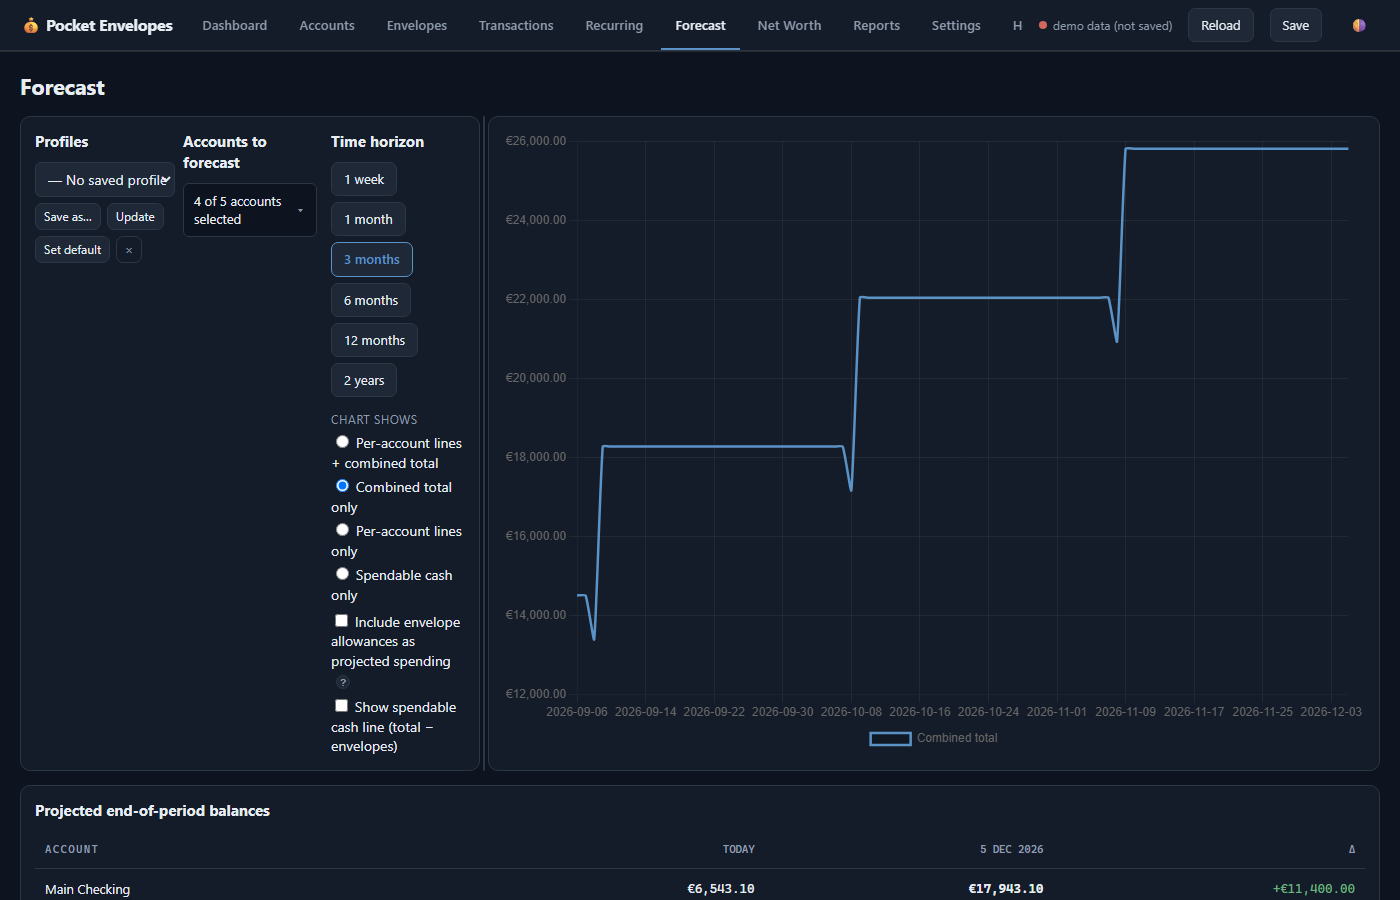
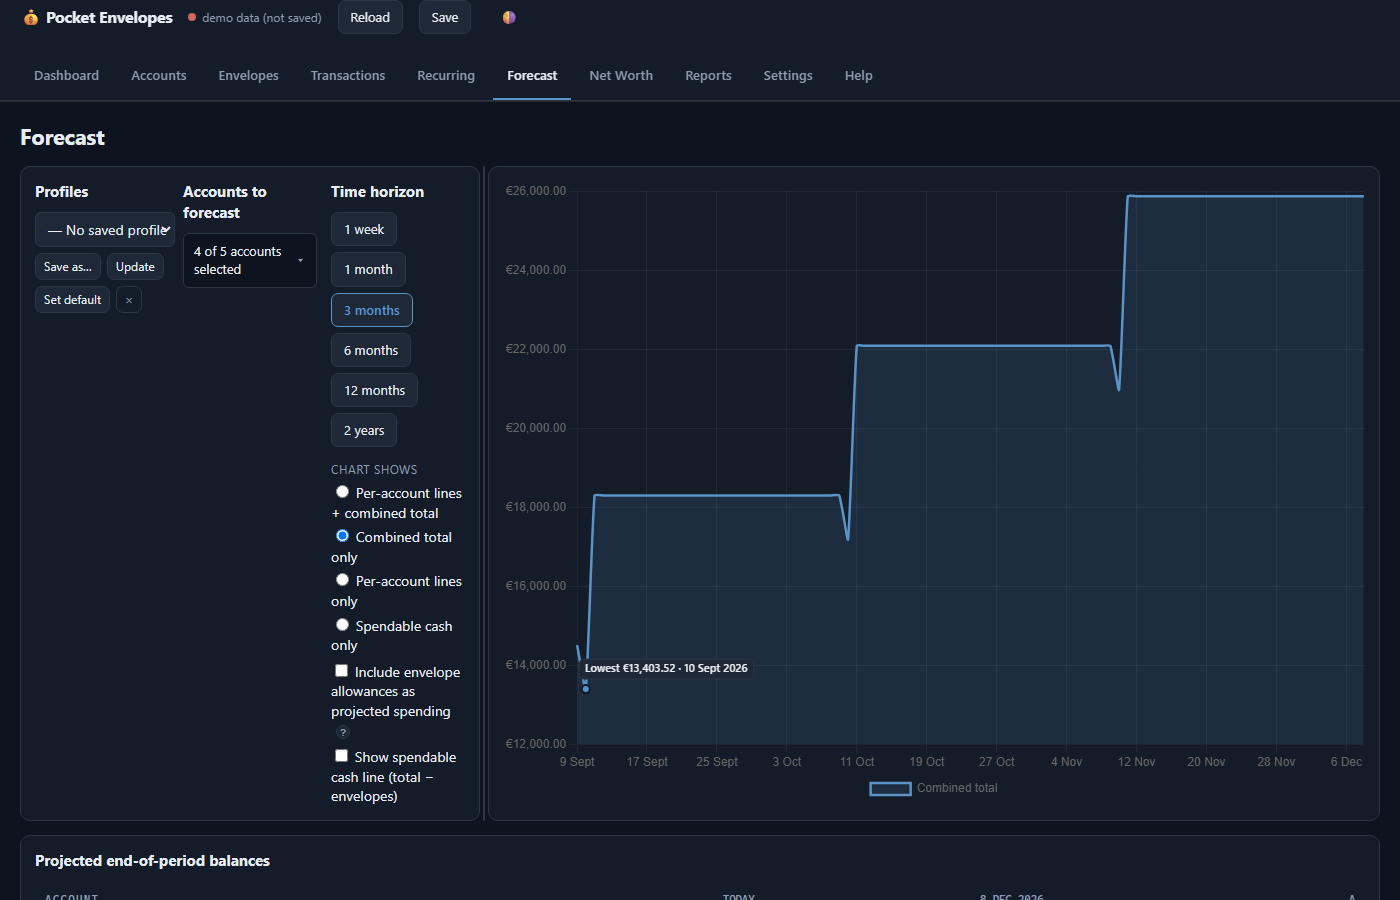
docs: regenerate the README screenshots for v0.6.0; tab strip wraps up to 1440px
The five screenshots now show the pace bars, card menus, marked forecast
low and neutral dashboard tile. The Playwright script that makes them is
checked in as screenshots/capture.py (1400x900, dark, English browser UI so
the native month picker is not in the OS language). Capturing at 1400px
showed the tab strip clipping the Help tab whenever the status label is
long, so the header's wrap breakpoint moves from 1380px to 1440px.

diff --git a/screenshots/capture.py b/screenshots/capture.py
@@ -1,0 +1,33 @@
+"""Regenerate the README screenshots from the demo dataset.
+
+    python screenshots/capture.py            # needs: pip install playwright && playwright install chromium
+
+Points headless Chromium at a running server (default http://127.0.0.1:8765,
+override with the SERVER environment variable) in ?demo=1 mode, which never
+reads or writes finance-data.json. Viewport 1400x900, dark theme (the demo's
+default), one PNG per view into this folder. The browser UI language is forced
+to English because native <input type="month"> follows the browser language,
+not the page locale.
+"""
+import os
+from pathlib import Path
+
+from playwright.sync_api import sync_playwright
+
+OUT = Path(__file__).resolve().parent
+BASE = os.environ.get("SERVER", "http://127.0.0.1:8765") + "/?demo=1"
+VIEWS = ["dashboard", "envelopes", "transactions", "forecast", "reports"]
+
+with sync_playwright() as p:
+    browser = p.chromium.launch(args=["--lang=en-GB"])
+    page = browser.new_page(viewport={"width": 1400, "height": 900}, device_scale_factor=1,
+                            color_scheme="dark", locale="en-GB")
+    for view in VIEWS:
+        page.goto(f"{BASE}&view={view}", wait_until="networkidle")
+        page.wait_for_selector("#main .card, #main table", timeout=10000)
+        page.wait_for_timeout(1200)      # let the charts animate in
+        page.mouse.move(0, 0)            # no hover states in the shot
+        target = OUT / f"{view}.png"
+        page.screenshot(path=str(target), full_page=False)
+        print("wrote", target.name, target.stat().st_size // 1024, "KB")
+    browser.close()

diff --git a/CLAUDE.md b/CLAUDE.md
@@ -21,7 +21,7 @@ A single-file personal-finance web app focused on envelope budgeting, built by a
 | `launch.sh` | macOS/Linux launcher. Same Python detection logic as `launch.bat`. |
 | `vendor/chart.umd.min.js` | Locally-vendored Chart.js (loaded via `<script src="vendor/chart.umd.min.js">`). See `vendor/README.md` for version + provenance. |
 | `vendor/chart.js-LICENSE.txt` | Chart.js's MIT license text, vendored next to the bundle so the redistribution terms travel with it. |
-| `screenshots/` | The five README screenshots (dashboard, envelopes, transactions, forecast, reports), regenerated from `?demo=1` via a Playwright script. |
+| `screenshots/` | The five README screenshots (dashboard, envelopes, transactions, forecast, reports) plus `capture.py`, the Playwright script that regenerates them from `?demo=1` against a running server (1400×900, dark, English browser UI so the month picker is not in the OS language). Needs a Python with `playwright` installed; on this PC use `newbuilding-crew-pack\.venv`. |
 | `README.md` | User-facing docs: install, concepts, security, optional multi-device setup. |
 | `SECURITY.md` | Security policy: the no-auth / loopback-only model in practice, and how to report an issue. |
 | `CONTRIBUTING.md` | How to propose a change; what to run before opening a PR. |
@@ -141,7 +141,7 @@ data = {
 10. **Rolling backups live in `localStorage`, not on disk.** File System Access only gives the app a *file* handle, not the parent directory, so writing sibling `.bak` files would require switching to `showDirectoryPicker()` (significant UX change). Backups are stored as one `envBudget_bak_<date>` key per day with a small `envBudget_bak_index` for the slot list. Trade-off: clearing site data wipes backups. Disk-level backups via directory picker remain on the roadmap. Restore goes through `pushUndo()` so a wrong restore is Ctrl-Z-able.
 11. **Add/Edit transaction snapshots undo.** The `t_save` handler (Add Tx / Edit Tx / recurring-instance-now) calls `pushUndo('Add transaction' | 'Edit transaction')` *before* the push/overwrite. This is the highest-frequency mutation and was previously the one destructive site that did NOT snapshot — so Ctrl-Z popped an older snapshot and reverted an unrelated earlier change while the just-edited tx survived. Reinforces #8; don't remove it. (Fixed 2026-05-31, review-360.)
 12. **Due-review "Apply selected" advances `lastAppliedDate` only through the contiguous applied prefix.** In `showDueReview()`'s `dueApplySel` handler, each recurring's watermark may advance only up to its latest applied occurrence that has **no earlier un-ticked sibling** — NOT to the max applied date. The old max-advance jumped the watermark past a skipped earlier occurrence, which then sat before `lastAppliedDate` and was silently never offered again (financial data loss). Trade-off of the fix: a later occurrence applied across a gap reappears in the next review (visible, recoverable) rather than an earlier skipped one vanishing (silent); a permanent skip must be a separate deliberate action. Do NOT "optimize" this back to max-date advancement. (`applyDueRecurring`'s own max-advance is fine there because it applies *all* due occurrences, leaving no gaps.) (Fixed 2026-05-31, review-360.)
-13. **review-360 medium pass (2026-05-31).** A batch of smaller fixes worth knowing about: (a) **Close-out now snapshots undo** (`co_apply` calls `pushUndo` — same theme as #11). (b) **Reports does one tx scan, not four** — `reportsAggregates()` computes both aggregates once; `renderReports` caches them in `_reportsAgg` for `bindReports`. **Ordering invariant:** `bindReports` must run immediately after `renderReports` (it does — the view switch calls them in sequence); it falls back to recomputing if `_reportsAgg` is null. (c) **`recurringToTx` extracted** as the single source of truth for recurring→tx routing. (d) **`openModal` auto-associates `<label>`s** with their controls — keep modal fields as `<div class="field"><label>…</label><input …></div>` and they get a programmatic label for free. (e) **Settings currency/locale escaped** with `esc()` (was a stored-XSS sink on import). (f) **Nav tabs wrap to their own row** between 721–1380px (1280px laptops no longer clip the tab strip).
+13. **review-360 medium pass (2026-05-31).** A batch of smaller fixes worth knowing about: (a) **Close-out now snapshots undo** (`co_apply` calls `pushUndo` — same theme as #11). (b) **Reports does one tx scan, not four** — `reportsAggregates()` computes both aggregates once; `renderReports` caches them in `_reportsAgg` for `bindReports`. **Ordering invariant:** `bindReports` must run immediately after `renderReports` (it does — the view switch calls them in sequence); it falls back to recomputing if `_reportsAgg` is null. (c) **`recurringToTx` extracted** as the single source of truth for recurring→tx routing. (d) **`openModal` auto-associates `<label>`s** with their controls — keep modal fields as `<div class="field"><label>…</label><input …></div>` and they get a programmatic label for free. (e) **Settings currency/locale escaped** with `esc()` (was a stored-XSS sink on import). (f) **Nav tabs wrap to their own row** between 721–1440px (1280px laptops no longer clip the tab strip; the upper bound moved from 1380 to 1440 on 2026-09-09 because a long status label clipped the Help tab at 1400px).
 14. **review-360 low pass (2026-05-31).** Mostly DRY/a11y polish — see the Helpers table for the new shared functions (`recurringResumeDate`, `wireAmountPreview`, `txDisplayParts`, `plural`, `linkHelpTips`). Plus: removed a dead no-op loop in `applyDueRecurring` (its watermark is set per-occurrence in the main loop — do NOT re-add a "advance to today" pass, same reasoning as #12); `restoreBackup` now rejects valid-JSON-but-non-object backups before `migrate()`; `idbSet` settles on error/abort so `openFile`/`newFile` can't hang; modal labels/help-tips/tap-targets/aria-current hardened; undo toasts surface the Ctrl+Z fallback in their text. **Deferred** (logged, not done): the forecast per-occurrence inner loops (`forecastAccountBalances`) and the global full-`render()` teardown — both measured negligible (sub-ms / within frame budget) and sit in the most sensitive code, so the regression risk outweighs the gain. Revisit only if a profiler flags them at real data sizes.
 15. **Modals are draggable + resizable on desktop (2026-06-01).** `.modal` gets `resize: both` and a drag-by-title-bar handler (`makeModalDraggable`), both gated on `(pointer: fine)` so touch keeps the full-width centered modal. Drag is clamped to keep the whole modal on-screen (the title bar is the only grab handle — it must never leave the viewport). Position/size **reset on every open** (`openModal` clears `transform`/`width`/`height` on the reused `#modal`). The focus trap, Esc-close and `aria` labelling are untouched. Backdrop click-to-close was hardened: it now only closes when the press *started* on `#modalBg` (tracked via a `pointerdown` flag) — otherwise a resize/drag that releases over the backdrop fires a click targeting `#modalBg` and would close the dialog mid-interaction. Don't put interactive controls in a modal's title `<h2>`: it's the drag handle (pointerdown calls `preventDefault`).
 16. **Theme supports Auto (system) (2026-06-01).** `settings.theme` is now `'auto' | 'dark' | 'light'` (default `'auto'` for new files; existing `'dark'`/`'light'` files unchanged). `resolvedTheme()` maps the setting to an effective `'dark'`/`'light'` (Auto follows `matchMedia('(prefers-color-scheme: light)')`); `applyTheme()` writes that resolved value to `<html data-theme>` — **CSS only ever sees `dark`/`light`, never `auto`**. A one-line inline script in `<head>` sets the first-paint theme from the OS (before the data file's saved preference loads) to avoid a dark flash on light systems. A `matchMedia` `change` listener re-applies + re-renders live when the OS flips *and* the user is on Auto. Both the header `🌗` button (cycles dark → light → auto) and Settings → Theme write `settings.theme` then call `applyTheme()`+`updateThemeButton()`. Always go through `applyTheme()` — don't set `document.documentElement.dataset.theme` to a raw setting value (it could be `'auto'`, which no CSS rule matches).

diff --git a/CHANGELOG.md b/CHANGELOG.md
@@ -5,6 +5,13 @@ author's working copy; the public repository starts from the 2026-09-06
 state. Changes that touch how money is counted are marked **(accounting)**,
 because those are the ones worth re-checking your own figures after.
 
+## Unreleased
+
+- The tab strip takes its own row up to 1440px wide (was 1380px): between
+  the two, a long status label pushed the Help tab off the header.
+- README screenshots regenerated for the v0.6.0 look; the Playwright script
+  that makes them now lives in `screenshots/capture.py`.
+
 ## 2026-09-08 — v0.6.0, pace bars, a marked forecast low, a lighter light theme
 
 - **Envelope cards show the month's pace.** The printed-tint fill (a hatch
